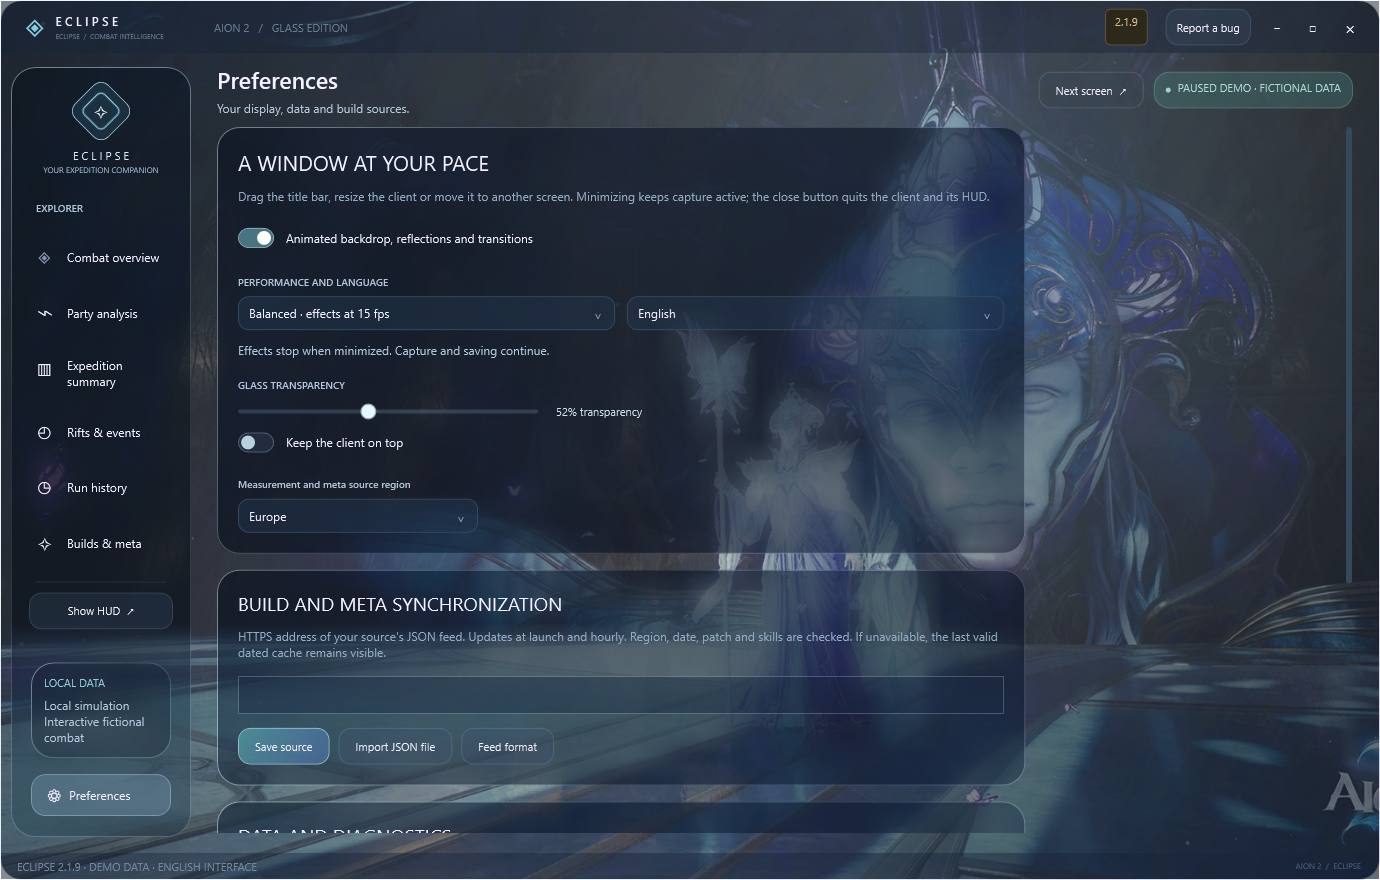
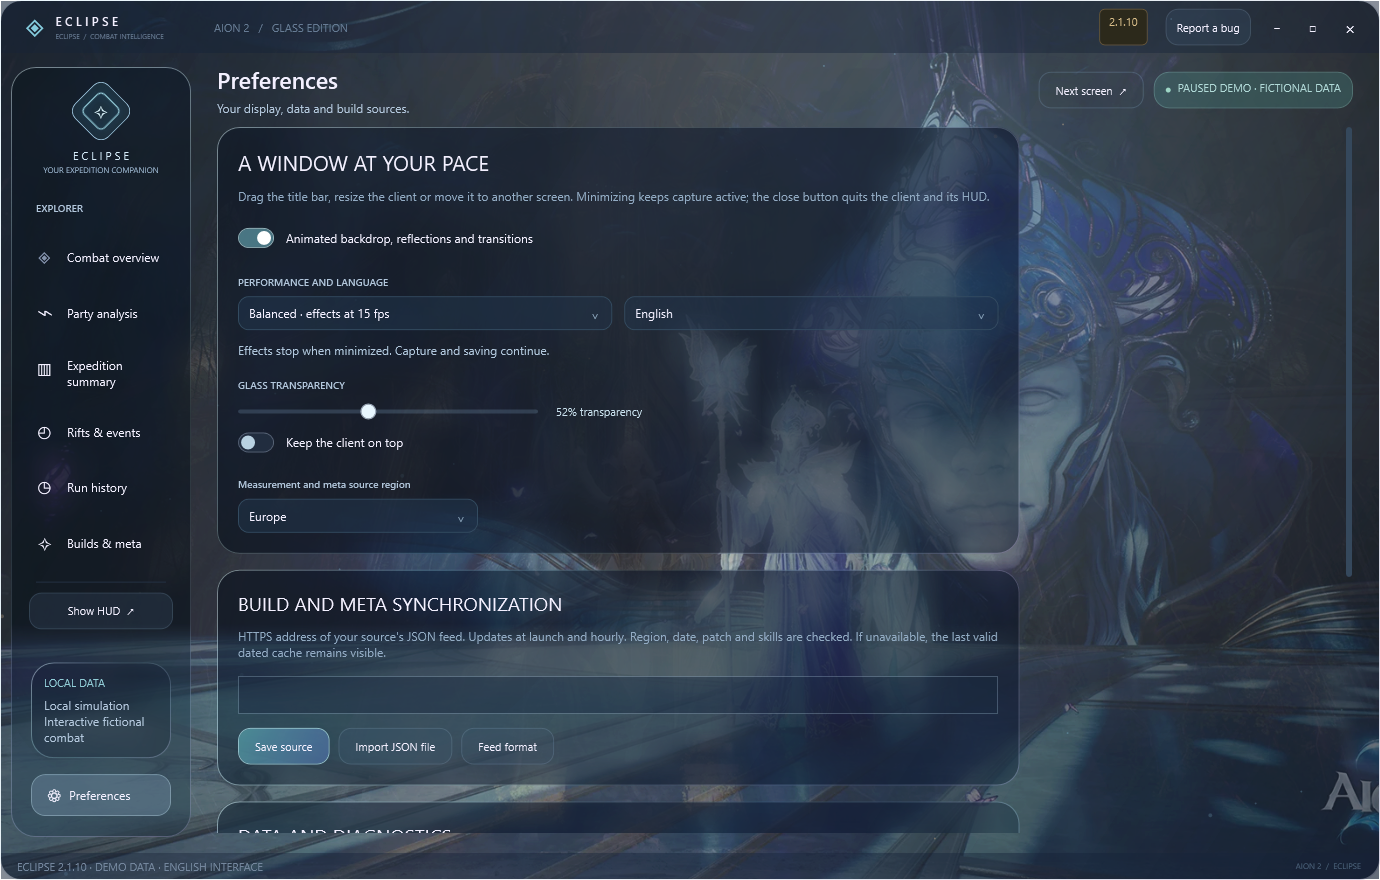
Release Eclipse 2.1.10 with direct run analysis and independent overlay closure

diff --git a/README.md b/README.md
@@ -2,11 +2,11 @@
 
 **[Download Eclipse-Setup.exe](https://github.com/Iota-Nine/Aion2-Eclipse/releases/latest/download/Eclipse-Setup.exe)** · **[Official website](https://iota-nine.github.io/Aion2-Eclipse/)** · [Français](docs/README.fr.md)
 
-![Eclipse 2.1.9 — AION 2 party DPS meter, Glass client and combat analysis for Windows](docs/images/eclipse-banner.svg)
+![Eclipse 2.1.10 — AION 2 party DPS meter, Glass client and combat analysis for Windows](docs/images/eclipse-banner.svg)
 
 [![Latest release](https://img.shields.io/github/v/release/Iota-Nine/Aion2-Eclipse?label=Download&color=75bdcf)](https://github.com/Iota-Nine/Aion2-Eclipse/releases/latest)
 [![Downloads](https://img.shields.io/github/downloads/Iota-Nine/Aion2-Eclipse/total?color=9384d0)](https://github.com/Iota-Nine/Aion2-Eclipse/releases)
-![Version 2.1.9](https://img.shields.io/badge/Version-2.1.9-d8bd88)
+![Version 2.1.10](https://img.shields.io/badge/Version-2.1.10-d8bd88)
 ![Windows x64](https://img.shields.io/badge/Windows-x64-507cab)
 ![English and French](https://img.shields.io/badge/Language-EN%20%2F%20FR-75bdcf)
 
@@ -16,13 +16,13 @@ Eclipse is a free AION 2 damage meter for Windows with a live party overlay and 
 
 [Features](#a-clearer-view-of-every-fight) · [Install Eclipse](#install-eclipse) · [How the numbers work](#how-the-numbers-work) · [What's new](CHANGELOG.md) · [Report an issue](https://github.com/Iota-Nine/Aion2-Eclipse/issues/new/choose)
 
-**Eclipse 2.1.9 is a corrective update to Eclipse V2.** Existing users can use **UPDATE**; new users download **Eclipse-Setup.exe**, which includes the complete application. English is the default language. French is available in Preferences. No Eclipse account or signup is required.
+**Eclipse 2.1.10 adds direct run-history analysis and fixes overlay closure in Eclipse V2.** Existing users can use **UPDATE**; new users download **Eclipse-Setup.exe**, which includes the complete application. English is the default language. French is available in Preferences. No Eclipse account or signup is required.
 
-![AION 2 DPS meter — Eclipse 2.1.9 English combat overview with party damage and skill analysis](docs/images/eclipse-combat-en.png)
+![AION 2 DPS meter — Eclipse 2.1.10 English combat overview with party damage and skill analysis](docs/images/eclipse-combat-en.png)
 
 *Native screenshot of the released client. All gallery combat values are explicitly labelled demo data.*
 
-The 2.1.9 correction also restores damage measurement after a completed or interrupted run when a later world load leads to an activity missing from the catalogue. Such combat remains unnamed; no dungeon or victory is guessed. The original no-DPS case was confirmed resolved by the owner in game.
+The included 2.1.9 correction restores damage measurement after a completed or interrupted run when a later world load leads to an activity missing from the catalogue. Such combat remains unnamed; no dungeon or victory is guessed. The original no-DPS case was confirmed resolved by the owner in game.
 
 ## A clearer view of every fight
 
@@ -34,7 +34,7 @@ The 2.1.9 correction also restores damage measurement after a completed or inter
 | **Party and skill analysis** | Inspect each member's damage, skill breakdown, critical hits, back attacks, maximum hits and received death counts. Nearby players outside the identified party are excluded. |
 | **Expedition summary** | Total damage, duration, party contribution, burst windows, gaps between hits and target segments, together with the declared build used for that run. |
 | **Interactive damage timeline** | Select a time range, inspect individual hits and find strong five-second burst windows. Large runs keep complete totals and mark partial timeline coverage when relevant. |
-| **Run history** | Local archives, search and filters, favourites, notes, interrupted-run recovery and configurable retention. Reopen a previous encounter after the dungeon. |
+| **Run history** | Click a dungeon to open its analysis directly: every member’s total damage with thin contribution bars, followed by skills, hits and timeline. Back restores your filters and scroll. Local favourites, notes and interrupted runs remain available. |
 | **A/B build comparisons** | Compare completed runs with matching target, region, declared difficulty and personal class. See observed DPS, critical-hit and back-attack changes. |
 | **Personal build profiles** | Save class skill selections, notes, activity and region. Your run keeps a snapshot of the selected profile for later review. |
 | **Dated class meta and community builds** | Refresh MetaRoad's contextual class rankings and links to community builds. Source, update date and regional uncertainty stay visible. Your own runs also form a separate local class ranking. |
@@ -46,7 +46,7 @@ The 2.1.9 correction also restores damage measurement after a completed or inter
 | **Performance controls** | Adjust transparency, animation quality and always-on-top behaviour. Visual effects stop when minimized while capture, timers and saving continue. |
 | **Exports and diagnostics** | Export run data and a share card; create a restricted diagnostic report for support. Logs and authentication tokens are excluded from that report. |
 | **Guided setup and updates** | Included application runtime, automatic prerequisite check, official Npcap installation with consent when needed, shortcuts and verified in-app update downloads. |
-| **Complete shutdown** | Minimize to keep collecting. Close Eclipse to quit its client, overlay and capture process. |
+| **Overlay and shutdown** | Close the overlay independently and reopen it from the client. Close the main client to finish pending saves and stop capture; minimize it to keep collecting. |
 
 ## Dedicated Rift timers
 
@@ -65,6 +65,10 @@ Travel portal entry/lifetime is **not confirmed by this source**, so Eclipse no 
 ## Screenshots — English interface
 
 The images below come from the native Windows application. Combat data is simulated for the gallery; no real player records are published.
+
+### Open a dungeon directly from history
+
+![Eclipse 2.1.10 AION 2 run history analysis — total damage and contribution bars for every party member](docs/images/eclipse-history-analysis-en.png)
 
 ### Party analysis
 
@@ -102,7 +106,7 @@ Setup creates Desktop and Start menu shortcuts and installs Eclipse for your Win
 
 ## Upgrade from V1 or an earlier V2
 
-**UPDATE appears in the full client only when a newer version is detected, just like the overlay.** A luminous progress panel shows the real download percentage, then verification and installation preparation. **Click UPDATE in Eclipse to install Eclipse 2.1.9 in the same folder.** V2 uses the same executable name and public update channel. Existing `data` and HUD preferences are preserved; V2 creates its own client history there. The updater verifies the release and checks the installed executable version before restarting it.
+**UPDATE appears in the full client only when a newer version is detected, just like the overlay.** A luminous progress panel shows the real download percentage, then verification and installation preparation. **Click UPDATE in Eclipse to install Eclipse 2.1.10 in the same folder.** V2 uses the same executable name and public update channel. Existing `data` and HUD preferences are preserved; V2 creates its own client history there. The updater verifies the release and checks the installed executable version before restarting it.
 
 If an older updater keeps reopening V1, run **`Eclipse-Setup.exe`** once. The complete ZIP remains available in release assets for portable installation and in-app updates. V1 is superseded; historical release pages remain available. An already downloaded V1 executable does not disable itself remotely.
 
@@ -110,9 +114,9 @@ If an older updater keeps reopening V1, run **`Eclipse-Setup.exe`** once. The co
 
 **Are these real damage values?** In normal mode, Eclipse uses damage events received from AION 2 network traffic. Demo mode is explicitly marked. Values that have not arrived remain unknown; player levels are shown only when received. Capture started late, missing packets or a changed game protocol can affect completeness.
 
-**Why doesn't DPS reset every second?** DPS is a rate calculated from damage over a duration. The HUD shows the current fight's average, the full client shows the run average, and the timeline and five-second burst view show short windows. Total damage accumulates until the run is ended or reset.
+**Why doesn't DPS reset every second?** DPS is a rate calculated from damage over a duration. The live HUD and live client use the current fight window, returning to zero after 2 seconds without received positive party damage. Archived summaries show the run average; the timeline and five-second burst view show short windows. Total damage accumulates until the run is ended or reset.
 
-**Does it detect every dungeon name?** Automatic boundaries currently rely on the recognized local teleport / login packet, including instance transitions. Other teleports also reset the run. V2 does not claim a complete dungeon-name database, and a transition without that packet cannot be guaranteed. Party queue changes alone do not erase combat.
+**Does it detect every dungeon name?** The catalogue recognizes 22 activities from received NPC identities. Internal teleports preserve an active dungeon run. Automatic completion is limited to verified final bosses in 7 dungeons; use **Finish run / Interrupt run** for other endings. Entering a different recognized activity archives an unfinished run as interrupted. Unknown activities remain measurable without a guessed name. Party queue changes alone do not erase combat.
 
 **Is there an official AION API?** Combat capture uses local network packets through Npcap. Eclipse also exposes its own authenticated, loopback-only local API for local integrations; that is separate from an official game API. Meta and build sources are fetched over HTTPS.
 

diff --git a/docs/README.fr.md b/docs/README.fr.md
@@ -2,7 +2,7 @@
 
 **[Télécharger Eclipse-Setup.exe](https://github.com/Iota-Nine/Aion2-Eclipse/releases/latest/download/Eclipse-Setup.exe)** · **[Site officiel en français](https://iota-nine.github.io/Aion2-Eclipse/fr/)** · [English](../README.md)
 
-![Eclipse 2.1.9 — compteur DPS AION 2, client Glass et analyse de groupe pour Windows](images/eclipse-banner.svg)
+![Eclipse 2.1.10 — compteur DPS AION 2, client Glass et analyse de groupe pour Windows](images/eclipse-banner.svg)
 
 **Suis les DPS de ton groupe en combat. Comprends tout le run quand le donjon est terminé.**
 
@@ -10,13 +10,13 @@ Eclipse réunit un compteur de dégâts AION 2, un HUD et un grand client Window
 
 [Fonctionnalités](#toutes-les-fonctionnalités) · [Installation](#installation) · [Mesures et sources](#mesures-et-sources) · [Nouveautés](../CHANGELOG.md) · [Signaler un bug](https://github.com/Iota-Nine/Aion2-Eclipse/issues/new/choose)
 
-**Eclipse 2.1.9 est une mise à jour corrective de la V2.** Depuis la V1, clique sur **UPDATE**. Les nouveaux utilisateurs téléchargent **Eclipse-Setup.exe**, qui contient toute l’application. La langue initiale est l'anglais ; le français se choisit dans Preferences. Aucun compte Eclipse ni inscription.
+**Eclipse 2.1.10 ajoute l’analyse directe depuis l’historique et corrige la fermeture de l’overlay dans la V2.** Depuis une version précédente, clique sur **UPDATE** lorsqu'il apparaît. Les nouveaux utilisateurs téléchargent **Eclipse-Setup.exe**, qui contient toute l’application. La langue initiale est l'anglais ; le français se choisit dans Preferences. Aucun compte Eclipse ni inscription.
 
-![Interface anglaise d'Eclipse 2.1.9 — compteur DPS et dégâts du groupe dans AION 2](images/eclipse-combat-en.png)
+![Interface anglaise d'Eclipse 2.1.10 — compteur DPS et dégâts du groupe dans AION 2](images/eclipse-combat-en.png)
 
 *Capture de l'application Windows publiée, avec des valeurs fictives signalées dans l'interface. Toutes les captures de présentation sont en anglais.*
 
-La 2.1.9 corrige aussi le blocage des dégâts après un run clôturé ou interrompu lorsqu'un chargement ultérieur mène à une activité absente du catalogue. Le combat reste sans nom de donjon inventé. Le propriétaire a confirmé en jeu la résolution du cas initial sans DPS.
+Le correctif 2.1.9 inclus restaure le comptage des dégâts après un run clôturé ou interrompu lorsqu'un chargement ultérieur mène à une activité absente du catalogue. Le combat reste sans nom de donjon inventé. Le propriétaire a confirmé en jeu la résolution du cas initial sans DPS.
 
 ## Toutes les fonctionnalités
 
@@ -28,7 +28,7 @@ La 2.1.9 corrige aussi le blocage des dégâts après un run clôturé ou interr
 | **Analyse du groupe et des compétences** | Dégâts de chaque joueur, poids des compétences, critiques, attaques de dos, coups maximums et morts reçues. Les attaquants proches hors du groupe identifié sont exclus. |
 | **Bilan d'expédition** | Dégâts, durée, contribution, fenêtres de burst, périodes sans impacts, segments de cibles et contexte du build choisi. |
 | **Courbe interactive** | Sélection d'une plage de temps, inspection des impacts et recherche de fenêtres fortes de cinq secondes. Les totaux restent complets lorsque la courbe est partielle. |
-| **Historique local** | Recherche, filtres, favoris, notes, récupération des runs interrompus et durée de conservation réglable. |
+| **Historique local** | Cliquer un donjon ouvre son analyse : dégâts totaux de tous les membres, fines barres de contribution, puis détails et chronologie. Retour conserve filtres et défilement. Favoris, notes et récupération des runs interrompus restent disponibles. |
 | **Comparaison A/B** | Compare des runs terminés avec cible, région, difficulté déclarée et classe personnelle correspondantes. Observe les variations de DPS, critiques et attaques de dos. |
 | **Profils de build** | Sélection des compétences, notes, activité et région. Chaque run conserve une copie du profil utilisé. |
 | **Méta et builds communautaires** | Actualisation des classements contextuels et liens MetaRoad, avec date, source et incertitude régionale visibles. Classement local séparé d'après tes propres runs. |
@@ -40,7 +40,7 @@ La 2.1.9 corrige aussi le blocage des dégâts après un run clôturé ou interr
 | **Réglages de performance** | Transparence, qualité des animations et premier plan. Les effets s'arrêtent en fenêtre réduite ; capture, chronos et sauvegardes continuent. |
 | **Exports et diagnostic** | Données du run, carte de partage et rapport de diagnostic limité, sans journaux ni jeton d'authentification. |
 | **Setup et mises à jour** | Runtime inclus, prérequis vérifiés, installation officielle Npcap avec consentement si nécessaire, raccourcis et téléchargement UPDATE vérifié. |
-| **Fermeture complète** | Réduire conserve la capture. La croix ferme le client, le HUD et le processus de capture. |
+| **Overlay et fermeture** | Fermer l’overlay laisse le client et la capture actifs ; son bouton le rouvre. Fermer le client termine les sauvegardes et arrête la capture. Réduire continue de mesurer. |
 
 ## Le nouveau timer des failles
 
@@ -59,6 +59,8 @@ La durée du portail de voyage n'est **pas confirmée par cette source** : les p
 ## Captures — interface anglaise
 
 Les images viennent du client Windows natif et utilisent des données de démonstration. Aucun historique de joueur réel n'est publié.
+
+![Analyse directe d’un donjon dans Eclipse 2.1.10 — dégâts de tous les joueurs et barres de contribution, interface anglaise](images/eclipse-history-analysis-en.png)
 
 ![Analyse DPS AION 2 — dégâts, critiques et compétences du groupe dans Eclipse](images/eclipse-analysis-en.png)
 
@@ -84,7 +86,7 @@ Le setup installe Eclipse pour ton compte Windows et crée les raccourcis Bureau
 
 ## Mise à jour depuis la V1 ou une V2 précédente
 
-**UPDATE apparaît dans le client uniquement lorsqu'une version plus récente est détectée, comme dans l'overlay.** Une barre lumineuse indique le pourcentage réel du téléchargement, puis les étapes de vérification et de préparation. **UPDATE installe Eclipse 2.1.9 dans le même dossier.** Le nom de l'exécutable et le canal public restent compatibles. Le dossier `data` et les réglages du HUD sont conservés ; le client V2 y ajoute son historique. L'updater vérifie la release et la version réellement installée avant de relancer Eclipse.
+**UPDATE apparaît dans le client uniquement lorsqu'une version plus récente est détectée, comme dans l'overlay.** Une barre lumineuse indique le pourcentage réel du téléchargement, puis les étapes de vérification et de préparation. **UPDATE installe Eclipse 2.1.10 dans le même dossier.** Le nom de l'exécutable et le canal public restent compatibles. Le dossier `data` et les réglages du HUD sont conservés ; le client V2 y ajoute son historique. L'updater vérifie la release et la version réellement installée avant de relancer Eclipse.
 
 Si un ancien updater boucle sur la V1, télécharge le dernier ZIP, extrais-le entièrement et lance **`Eclipse.Setup.exe`** une fois. La V1 est remplacée, mais les anciennes pages de release restent accessibles. Un ancien exécutable déjà téléchargé ne se désactive pas à distance.
 
@@ -92,9 +94,9 @@ Si un ancien updater boucle sur la V1, télécharge le dernier ZIP, extrais-le e
 
 **Les dégâts sont-ils réels ?** En utilisation normale, Eclipse lit les événements de dégâts reçus dans le trafic AION 2. La démo est clairement signalée. Les niveaux non reçus restent inconnus. Une capture démarrée tard, des paquets manquants ou un changement de protocole peuvent affecter la complétude.
 
-**Pourquoi le DPS ne revient pas à zéro chaque seconde ?** C'est un débit : dégâts divisés par une durée. Le HUD affiche la moyenne du combat courant ; le client affiche celle du run. La courbe et le burst de cinq secondes décrivent des fenêtres courtes. Les dégâts totaux s'accumulent jusqu'à la fin ou la remise à zéro du run.
+**Pourquoi le DPS ne revient pas à zéro chaque seconde ?** C'est un débit : dégâts divisés par une durée. Le HUD et le client en direct utilisent la fenêtre du combat courant, puis reviennent à zéro après 2 secondes sans dégâts positifs du groupe. Les bilans archivés affichent la moyenne du run. La courbe et le burst de cinq secondes décrivent des fenêtres courtes. Les dégâts totaux s'accumulent jusqu'à la fin ou la remise à zéro du run.
 
-**Tous les donjons sont-ils nommés automatiquement ?** Les frontières reposent sur le paquet local de téléportation / connexion reconnu, notamment pour les changements d'instance. Les autres téléportations remettent aussi le run à zéro. Il n'y a pas de base exhaustive des noms de donjons ; une transition sans ce paquet n'est pas garantie. Modifier une file de groupe ne clôt pas le combat.
+**Tous les donjons sont-ils nommés automatiquement ?** Le catalogue reconnaît 22 activités à partir des identités de NPC reçues. Les TP internes conservent le run actif. La fin automatique est limitée aux boss finaux vérifiés de 7 donjons ; utilise **Finish run / Interrupt run** pour les autres fins. Entrer dans une autre activité reconnue archive le run inachevé comme interrompu. Les activités inconnues restent mesurables sans nom inventé. Modifier une file de groupe ne clôt pas le combat.
 
 **API ou réseau ?** La capture combat utilise les paquets locaux via Npcap. L'API locale authentifiée d'Eclipse sert aux intégrations sur ton PC ; ce n'est pas une API officielle du jeu. Les sources de méta et de builds sont consultées en HTTPS.
 

diff --git a/CHANGELOG.md b/CHANGELOG.md
@@ -1,5 +1,22 @@
 # Eclipse release notes
 
+## v2.1.10 — Direct run analysis and overlay fixes
+
+Eclipse 2.1.10 makes reviewing a dungeon run faster and fixes overlay and client closure.
+
+- Click a dungeon in **Run history** to open its analysis directly.
+- See **every party member's total damage**, sorted by contribution, with a thin class-coloured bar. Players who left the party remain in the saved run.
+- Keep the existing skill breakdown, hits and timeline underneath. Time-range selection changes the details while the recap keeps the whole run's totals.
+- **Back to run history** restores your search, filters and scroll position; the same run can be opened again.
+- Closing the **overlay** leaves the desktop client and damage capture running. Use the Overlay button to reopen it.
+- Closing the **main client** hides both windows promptly, finishes pending saves and stops capture before exiting.
+
+The 2.1.9 DPS and dungeon corrections are included: live party DPS returns to zero after 2 seconds without received positive damage, while run totals remain cumulative. Internal teleports preserve runs. Activity recognition covers 22 catalogue entries; automatic final-boss completion remains limited to 7 dungeons.
+
+**Install:** download **Eclipse-Setup.exe**, or click **UPDATE** when it appears in Eclipse. The complete application runtime is included; the official Npcap consent wizard is offered if the driver is missing. Existing history, language and HUD settings are preserved. English is the default; French is selectable. Startup remains silent.
+
+Validation: 500 logic checks, 22 native history-analysis checks, English/French and compact layouts, both client close paths with an existing Npcap driver and isolated local API, migrations from V1 and 2.1.9, and standalone payload verification. Gallery values are labelled demo data. This release does not extend dungeon or regional protocol coverage.
+
 ## v2.1.9 — DPS and dungeon-run corrective update
 
 Eclipse 2.1.9 is a corrective update to V2.
